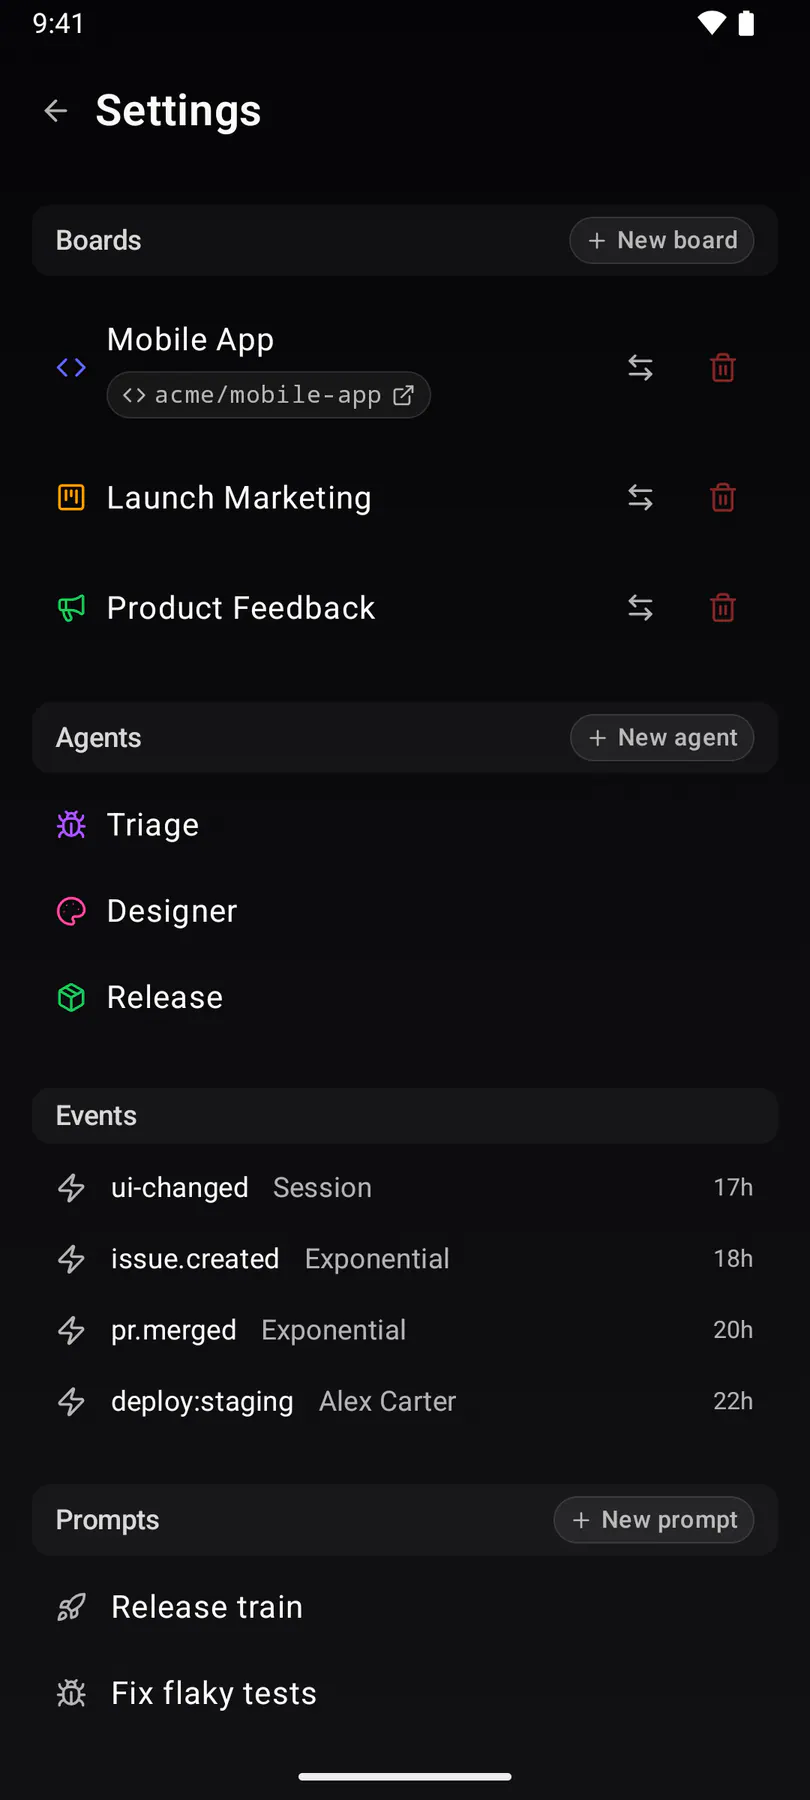
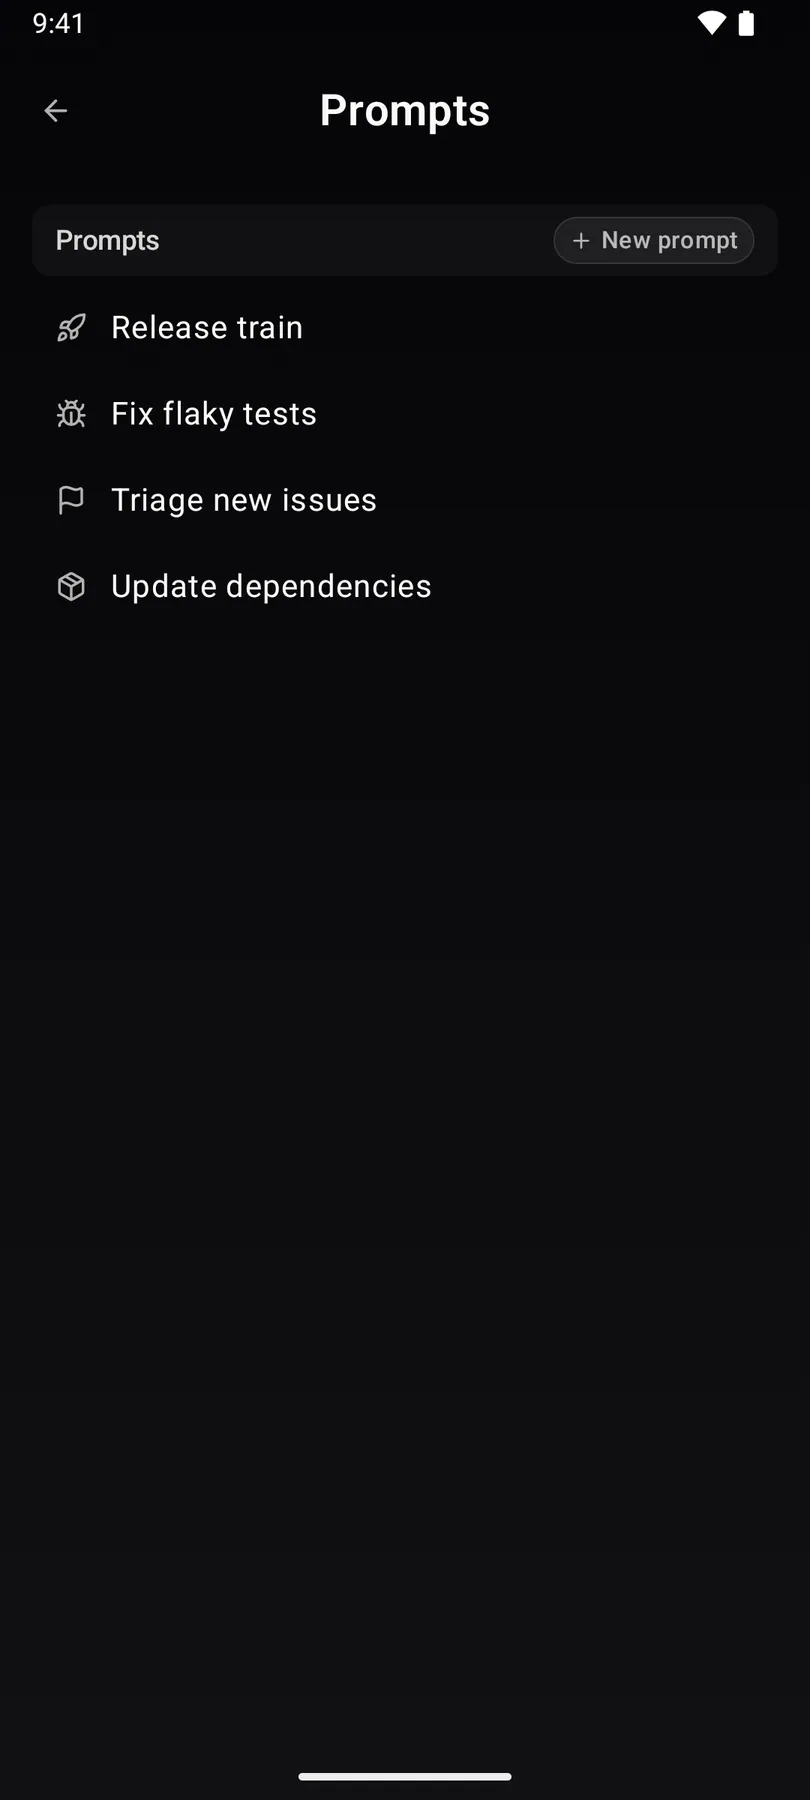
EXP-1381: Android styleguide walk follows the per-section settings pages and taps clear of the tab bar; settings-team, settings-prompts, getting-started android shots

diff --git a/apps/android/app/src/androidTest/java/com/exponential/app/StyleguideScreenshotsTest.kt b/apps/android/app/src/androidTest/java/com/exponential/app/StyleguideScreenshotsTest.kt
@@ -16,6 +16,9 @@ import androidx.compose.ui.test.hasText
 import androidx.compose.ui.test.junit4.createAndroidComposeRule
 import androidx.compose.ui.test.longClick
 import androidx.compose.ui.test.onFirst
+import androidx.compose.ui.geometry.Offset
+import androidx.compose.ui.test.onRoot
+import androidx.compose.ui.test.swipe
 import androidx.compose.ui.test.performClick
 import androidx.compose.ui.test.performScrollTo
 import androidx.compose.ui.test.performScrollToNode
@@ -857,7 +860,7 @@ class StyleguideScreenshotsTest {
         // The row shows while the demo team has open steps (the seed never
         // sets up a server), and opens the block in a bottom sheet.
         flow.waitFor(hasTestTag(GettingStartedCopy.ENTRY_TEST_ID), SYNC_TIMEOUT)
-        composeRule.onNode(hasTestTag(GettingStartedCopy.ENTRY_TEST_ID)).performClick()
+        tapClearOfBar(hasTestTag(GettingStartedCopy.ENTRY_TEST_ID))
         flow.waitFor(hasTestTag("getting-started-sheet"), NAV_TIMEOUT)
         flow.waitFor(hasTestTag(GettingStartedCopy.rowTestId(GettingStartedStepKey.Board)), NAV_TIMEOUT)
         flow.settle()
@@ -866,56 +869,67 @@ class StyleguideScreenshotsTest {
         flow.waitForGone(hasTestTag("getting-started-sheet"), NAV_TIMEOUT)
         flow.settle(longer = true)
 
-        // --- Team settings: one tap deeper (the Team tab's General row), then
-        // back out for the account screen.
-        composeRule.onAllNodes(hasText("General")).onFirst().performScrollTo().performClick()
-        flow.waitFor(hasText("Boards", ignoreCase = true), NAV_TIMEOUT)
-        flow.waitFor(hasText("Repositories", ignoreCase = true), NAV_TIMEOUT)
+        // --- sg_settings-team: #EXP-1381 every Team row opens its OWN page
+        // (settings-nav.json); the Boards page, anchored on the seeded board
+        // it lists (iOS parity).
+        tapClearOfBar(teamSettingsRow("Boards"))
+        flow.waitFor(hasTestTag(SettingsNav.PAGE_TEST_ID), NAV_TIMEOUT)
         flow.waitFor(hasText(TEAM_BOARD_NAME, substring = true), SYNC_TIMEOUT)
         flow.settle()
         flow.screenshot("sg_settings-team")
+        Espresso.closeSoftKeyboard()
+        Espresso.pressBack()
+        flow.waitFor(hasTestTag("team-tab"), NAV_TIMEOUT)
+        flow.settle()
 
-        // --- sg_settings-team-agent: Settings → Agents (the team page's
-        // section, EXP-1296) → Triage: its device, account, schedule and the
-        // seeded instructions (fetched, so they are the gate).
+        // --- sg_settings-team-agent: the Team page's Agents row → Triage: its
+        // device, account, schedule and the seeded instructions (fetched, so
+        // they are the gate).
+        tapClearOfBar(teamSettingsRow("Agents"))
         val settingsAgentRow = hasTestTag(SessionTree.ListCopy.TEST_ID_AGENT_ROW) and hasText(AGENT_NAME)
         flow.waitFor(settingsAgentRow, SYNC_TIMEOUT)
-        composeRule.onAllNodes(settingsAgentRow).onFirst().performScrollTo().performClick()
+        tapClearOfBar(settingsAgentRow)
         flow.waitFor(hasTestTag(AgentSettings.TEST_ID_PAGE), NAV_TIMEOUT)
         flow.waitFor(hasTestTag("agent-settings-trigger"), SYNC_TIMEOUT)
         flow.waitFor(hasText(AGENT_INSTRUCTIONS_FRAGMENT, substring = true), NETWORK_TIMEOUT)
         flow.settle()
         flow.screenshot("sg_settings-team-agent")
-        composeRule.onNode(hasContentDescription("Back")).performClick()
-        flow.waitFor(hasText(TEAM_BOARD_NAME, substring = true), NAV_TIMEOUT)
+        Espresso.closeSoftKeyboard()
+        Espresso.pressBack()
+        flow.waitFor(settingsAgentRow, NAV_TIMEOUT)
+        Espresso.closeSoftKeyboard()
+        Espresso.pressBack()
+        flow.waitFor(hasTestTag("team-tab"), NAV_TIMEOUT)
         flow.settle()
 
-        // --- sg_settings-prompts / sg_settings-prompt (NEW-7): the team
-        // page's Prompts section (prompts replaced actions; the band with
-        // the owner's New prompt pill over one row per prompt), then New
-        // prompt: THE prompt page in create mode (web `settings-prompt`), so
-        // neither shot needs a seeded prompt id.
+        // --- sg_settings-prompts / sg_settings-prompt (NEW-7): the Team page's
+        // Prompts row (the band with the owner's New prompt pill over one row
+        // per prompt), then New prompt: THE prompt page in create mode (web
+        // `settings-prompt`), so neither shot needs a seeded prompt id.
+        tapClearOfBar(teamSettingsRow("Prompts"))
+        flow.waitFor(hasTestTag("prompts-new"), SYNC_TIMEOUT)
         composeRule.onNode(hasTestTag("prompts-new")).performScrollTo()
         flow.waitFor(hasTestTag("prompts-settings-list"), NAV_TIMEOUT)
         flow.settle()
         flow.screenshot("sg_settings-prompts")
-        composeRule.onNode(hasTestTag("prompts-new")).performClick()
+        tapClearOfBar(hasTestTag("prompts-new"))
         flow.waitFor(hasTestTag("prompt-page"), NAV_TIMEOUT)
         flow.waitFor(hasTestTag("prompt-edit-body"), NAV_TIMEOUT)
         flow.settle()
         flow.screenshot("sg_settings-prompt")
-        composeRule.onNode(hasContentDescription("Back")).performClick()
-        flow.waitFor(hasText(TEAM_BOARD_NAME, substring = true), NAV_TIMEOUT)
+        Espresso.closeSoftKeyboard()
+        Espresso.pressBack()
+        flow.waitFor(hasTestTag("prompts-new"), NAV_TIMEOUT)
         flow.settle()
-
-        composeRule.onNode(hasContentDescription("Back")).performClick()
+        Espresso.closeSoftKeyboard()
+        Espresso.pressBack()
         flow.waitFor(hasTestTag("team-tab"), NAV_TIMEOUT)
 
         // --- Account settings: there is no separate profile screen (EXP-311) —
         // the signed-in identity, sign out and delete account live on the
         // server row's detail. The row is titled by the SERVER with the email
         // below, so the email addresses it; "Sign out" only exists there.
-        composeRule.onAllNodes(hasText(DEMO_EMAIL, substring = true)).onFirst().performScrollTo().performClick()
+        tapClearOfBar(hasText(DEMO_EMAIL, substring = true))
         flow.waitFor(hasText("Sign out"), NAV_TIMEOUT)
         flow.waitFor(hasText("Delete account", substring = true), NAV_TIMEOUT)
         flow.settle()
@@ -1154,6 +1168,35 @@ class StyleguideScreenshotsTest {
         composeRule.onAllNodes(row).onFirst().performClick()
         flow.waitForGone(hasTestTag(Chats.TestIds.BOARD_MENU), NAV_TIMEOUT)
         flow.settle(longer = true)
+    }
+
+    /** A Team-page settings row (settings-nav.json) by its label. */
+    private fun teamSettingsRow(label: String): SemanticsMatcher =
+        hasTestTag(SettingsNav.ROW_TEST_ID) and (hasText(label) or hasAnyDescendant(hasText(label)))
+
+    /**
+     * Tap a row on a page under the floating tab bar: `performClick` touches the
+     * node's centre, so a row scrolled only just into view (under the bar) would
+     * hit the bar instead. Scroll it in, then drag the page up by the overlap.
+     */
+    private fun tapClearOfBar(matcher: SemanticsMatcher) {
+        val node = composeRule.onAllNodes(matcher).onFirst()
+        node.performScrollTo()
+        flow.settle()
+        val bar = composeRule.onAllNodes(hasTestTag(Chats.TestIds.TAB_TEAM)).fetchSemanticsNodes()
+        if (bar.isNotEmpty()) {
+            // The tab sits inside the capsule; keep a margin above the capsule.
+            val clearLine = bar.first().boundsInRoot.top - 48f
+            val bottom = node.fetchSemanticsNode().boundsInRoot.bottom
+            if (bottom > clearLine) {
+                val dy = bottom - clearLine + 96f
+                composeRule.onRoot().performTouchInput {
+                    swipe(Offset(centerX, centerY), Offset(centerX, centerY - dy), durationMillis = 600)
+                }
+                flow.settle()
+            }
+        }
+        node.performClick()
     }
 
     /**
